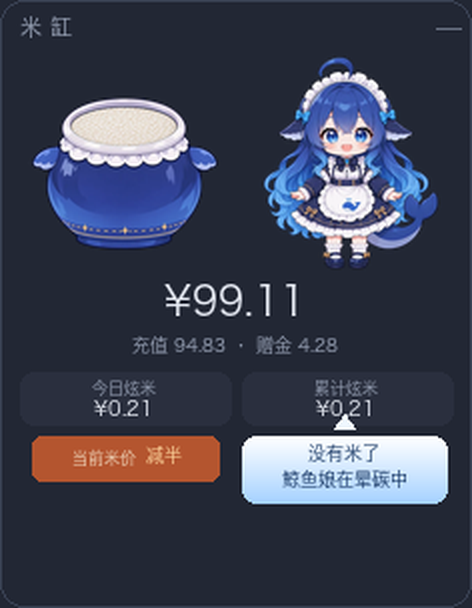
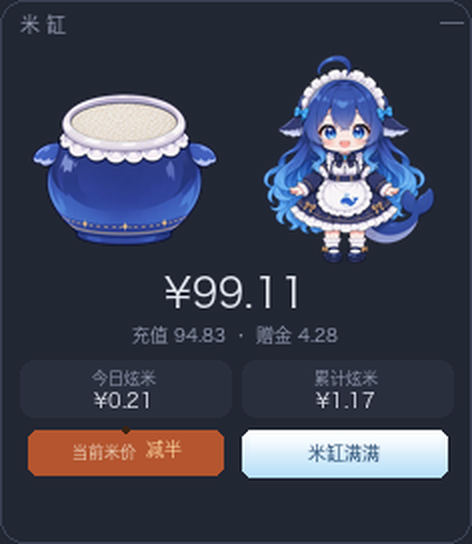
docs: rewrite README for 1.0.2
- install first, then features
- regenerate the preview images against the current copy and layout
  (今日炫米/累计炫米, hint plate, sleeping pose lifted to cover the vat mouth)
- document the DSH compatibility floor: 0.2.1-rc.2 + plugin 1.0.2
- add an explicit upstream section crediting the community character library and
  the reference implementations this plugin learned from
- ask for a star at the end

diff --git a/README.md b/README.md
@@ -1,114 +1,203 @@
-# 米缸 · Rice vat
+# 米缸 · dsh-rice-vat
 
-A DeepSeek Harness UI plugin that shows the account balance as a **rice vat**,
-with a Q-version whale-girl (鲸鱼娘) companion who eats the rice while you spend
-and falls asleep on the empty vat when it runs out.
+> 把 DeepSeek 账户余额变成**一缸米**。鲸鱼娘守着缸，你每花一笔，她就吃一口。
+
+[![npm](https://img.shields.io/npm/v/dsh-rice-vat)](https://www.npmjs.com/package/dsh-rice-vat)
+[![license](https://img.shields.io/npm/l/dsh-rice-vat)](LICENSE)
+[![DSH](https://img.shields.io/badge/DSH-%E2%89%A5%200.2.1--rc.2-blue)]()
 
 ![卡片](docs/card.png)
 
+---
+
+## 安装
+
+### 方式一：让 DSH 的 agent 帮你装（最简单）
+
+新建一个会话，对它说：
+
+> 安装 DSH 插件 `dsh-rice-vat`，最新版
+
+它调用 `plugin_manager` 时会弹确认，批准即可。
+
+### 方式二：手动
+
+```
+plugin_manager  install_bundle  dsh-rice-vat@1.0.2
+```
+
+或者命令行：
+
+```bash
+npm install -g dsh-rice-vat
+```
+
+### ⚠ 装完必须**完全退出 DSH 再打开**
+
+不是刷新页面，是**退出应用**。
+
+插件由两半组成：客户端（面板 UI）和 Host（数据路由）。客户端刷新页面就能加载，**Host 半必须等 DSH 重新启动才会注册路由**。只刷新不重启，就会看到「面板出现了但一直显示正在读数」—— 那是 Host 半没起来。
+
+如果重启后仍不正常，到「插件」页把 `dsh-rice-vat` 的开关**关掉再打开**。
+
+### 运行要求
+
+| 项 | 要求 |
+|---|---|
+| DSH | **≥ 0.2.1-rc.2** |
+| 插件版本 | **≥ 1.0.2**（1.0.0 / 1.0.1 在 0.2.1 上不可用，`1.0.1` 已标记 deprecated） |
+| DeepSeek 账号 | **需要登录**，余额通过账号服务读取 |
+| API Key | **不需要**，插件完全不读 key |
+
+---
+
+## 它有什么
+
+### 🍚 余额就是米位
+
+不是又一个数字，而是**余光扫一眼就知道还剩多少**。
+
+- **> ¥100** — 米堆成小山，溢出缸口
+- **¥6 – ¥100** — 米面在缸口内**连续下降**（不是四段跳变）
+- **¥0 – ¥6** — 缸底只剩几粒米
+- **¥0** — 空缸，她直接趴在缸口上睡着
+
+### 🐋 吃米动画
+
+每产生一次模型调用消耗，她就切到「端着碗吃米饭」的 16 帧动画（4.6 秒循环），米粒从碗里溅出，碗里的米**越吃越少直到见底**。米缸本身不参与演出，始终显示真实余额。
+
+### 🪧 气泡提示牌
+
+一块蓝白渐变的提示牌，用一句话说明**米缸当前的状态**（不是描述她在干嘛）：
+
+| 情形 | 提示 |
+|---|---|
+| 余额 > ¥100 | 米缸溢出来了 |
+| 米位 ≥ 70% | 米缸满满 |
+| 米位 30–70% | 米缸过半 |
+| 米位 < 30% | 米缸见底了 |
+| 空缸 | 没有米了，晕碳中 |
+| 吃米中 | 正在炫米... |
+| 数据拉取失败 | 信号不稳 |
+
+### 🏷 米价木牌
+
+DeepSeek 有峰谷计价：北京时间工作日 9–12、14–18 为高峰，其余时段**半价**。空闲时段木牌会亮成橙色显示「当前米价 · 减半」。
+
+### 📊 本地消耗统计
+
+今日炫米 / 累计炫米，按真实 token 用量折算成金额，落在本地账本。
+
+---
+
 ## 四档米位
 
-![四档米位](docs/states.png)
-
-The artwork is four discrete states, selected by balance:
+![四档](docs/states.png)
 
 | 余额 | 米位 | 实现 |
 |---|---|---|
-| **> ¥100** | 米堆成小山，溢出缸口 | `vat-overflow` 原画 |
-| **¥6 – ¥100** | 米面**连续下降** | `vat-empty` + 米面叠加层，按余额在缸口内下移 |
-| **¥0 – ¥6** | 缸底只剩几粒米 | `vat-low` 原画 |
-| **¥0** | 空缸，她趴在上面睡 | `vat-empty` + `girl-sleep` |
+| **> ¥100** | 米堆成小山 | `vat-overflow` 原画 |
+| **¥6 – ¥100** | 米面连续下降 | 空缸 + 米面层按余额在缸口内下移（最大 19.05%） |
+| **¥0 – ¥6** | 缸底几粒米 | `vat-low` 原画 |
+| **¥0** | 空缸，她趴在上面睡 | `vat-empty` + `girl-sleep`（上移 52%） |
 
-中间段没有原画，用素材包自带的 `vat-rice-mask` / `vat-rice-overlay` 合成：
-空缸为底，米面层按「(余额−6)/94」在缸口内下移，最大位移 19.05%（= 缸口可见高度）。
-`vat-full` 原画保留为合成不可用时的兜底。
+中间段没有现成原画，用素材包自带的缸口遮罩 + 米面叠加层合成，所以升降是平滑的而不是跳档。
 
-Thresholds are fixed by design and **not** configurable.
+---
 
-## 状态
-
-| 状态 | 触发 | 素材 |
-|---|---|---|
-| 待机 | 默认 | `girl-idle` |
-| 吃米 | 每次模型调用产生消耗 | `girl-eat`：**16 帧动画**（4.6s，碗里的米吃到见底）+ 米粒飞溅 |
-| 告急 | 0 < 余额 ≤ ¥6 | `girl-low` |
-| 空缸 | 余额 = 0 | `girl-sleep` **叠在** `vat-empty` 上 |
-
-![提示牌与木牌](docs/hint-plate.png)
-
-吃米时的演出：米粒从**她怀里的碗**中溅出，鲸鱼娘切到埋头吃的姿态。
-米缸**始终显示真实余额档位**，不参与吃米演出。
-
-> 碗里的米「越吃越少直到见底」需要额外帧素材（原画里碗内壁被米挡住，无法合成），
-> 规格见 `ASSETS-SPEC.md` §5.5。
-
-## 渲染位置
-
-挂在 `shell.overlay`（全框浮层），以 CSS 定位停在侧边栏底部。
-侧边栏本身是 `single` 槽位，替换它等于重写整列，所以本插件只做视觉锚定，不占布局位。
-
-## 数据
+## 数据从哪来
 
 | 字段 | 来源 |
 |---|---|
-| 余额、充值、赠金 | `ctx.deepseekAccount.getBalance()`（Host） |
-| 今日 / 累计消耗 | `session/event` → `assistant/message.usage`，在 Host 折叠 |
-| 实时余额 | 锚点余额 − 锚点之后累计消耗（pulse 每 1.5s 下发） |
-| 计价 | 内置 DeepSeek CNY 价目表 |
-| 多 key 余额 | 未实现 |
+| 余额 / 充值 / 赠金 | `ctx.deepseekAccount.getBalance()`（Host） |
+| 今日 / 累计消耗 | 会话事件 `assistant/message.usage`，在 Host 折叠 |
+| 实时余额 | 锚点余额 − 锚点后累计消耗，1.5 秒一次心跳 |
+| 计价 | 内置 DeepSeek 官方价目表 |
 
-累计统计**从插件首次加载开始**，不回放历史会话。DSH 之外的消耗会降低余额但不会被归因。
-
-### 计价
+### 计价表（元 / 百万 tokens）
 
 | 模型 | 输入（缓存命中） | 输入（未命中） | 输出 |
 |---|---|---|---|
 | `deepseek-flash` | ¥0.04 / ¥0.02 | ¥2 / ¥1 | ¥8 / ¥4 |
 | `deepseek-v4-pro` | ¥0.30 / ¥0.15 | ¥9.0 / ¥4.5 | ¥27.0 / ¥13.5 |
 
-前为高峰价，后为空闲价（正好半价）。高峰 = 北京时间工作日 9:00–12:00、14:00–18:00。
-**中国法定节假日未建模**，节假日流量会高估。未知模型按 flash 计价。
+前为高峰价，后为空闲价（正好半价）。**中国法定节假日未建模**，节假日流量会高估。未知模型按 flash 计价。
 
-面板用一块木牌提示价格：空闲时段显示「今日米价 · 减半」。
+---
 
-## 路由
+## 隐私与鉴权
 
-| 路由 | 鉴权 | 用途 |
-|---|---|---|
-| `GET /api/rice-bowl/state` | owner | 余额 + 消耗文档 |
-| `GET /api/rice-bowl/pulse` | owner | 1.5s 轻量消耗与实时米位 |
-| `GET /api/rice-bowl/asset/<name>.webp` | 公开 | 素材（不含账户数据） |
-| `GET /api/rice-bowl/ping` | 公开 | 客户端挂载心跳 |
-| `GET /api/rice-bowl/diag` | 公开 | 只有计数器，绝不含余额 |
+- **完全不读取 API key**，只走已登录的账号服务。
+- 余额数据只通过 **owner 授权的路由**离开 Host：Host 在渲染页面时签发一次性令牌并注入页面全局，客户端回传 `x-rice-bowl-token` 才放行。
+- 令牌以 **SHA-256 哈希**落盘（`$DSH_HOME/rice-bowl/tokens.json`，权限 0600），进程重启或插件重载都不会让已打开的页面失效。
+- 账本在 `$DSH_HOME/rice-bowl/ledger.json`，只存金额，不上传任何东西。
 
-数据路由 fail-closed。自有前缀路由拿不到共享 `/api` 的 peer，因此 Host 在渲染 index 时
-签发页面令牌并注入 `__RICE_BOWL_TOKEN__`，客户端回传 `x-rice-bowl-token`。
-令牌以 **SHA-256 哈希**落盘（`$DSH_HOME/rice-bowl/tokens.json`，0600），
-进程重启或插件重载都不会让已打开的页面失效。
+---
 
-## 隐私
+## 已知限制
 
-- 本版本**完全不读取 API key**。
-- 余额只会通过 owner 授权的路由离开 Host。
-- 余额响应缓存 45s，面板轮询不会打爆接口。
-- 账本在 `$DSH_HOME/rice-bowl/ledger.json`，只存金额。
+- **侧边栏折叠时**卡片可能压住内容 —— 它挂在 `shell.overlay` 上做视觉锚定，不占布局位。右上角 `—` 可收起成小米粒药丸。
+- **统计从安装那一刻开始**，不回填历史消耗（避免全量重放会话日志）。
+- **DSH 之外**用同一账号花的钱会降低余额，但不会被归因到今日/累计。
 
-## 素材
+---
 
-八个状态由插件所有者提供，见 `assets/ATTRIBUTION.md`。
-全部 1024×1024 RGBA，共用同一画布与同一缸体；本插件用**统一裁切** `(74,62,952,962)`
-再编码成 512 宽 WebP，从而让 `girl-sleep` 能直接叠在 `vat-empty` 上（上移 15.55%）。
+## 开源来源与致谢
 
-## 未实现
+这个插件的**角色形象、技术路线和实现手法**都来自开源社区，来源在此逐一说明。
 
-- 多 key 多米缸（逐个勾选 opt-in）。
-- 账本里已存的按日历史没有浏览界面。
-- 素材是静态帧；动画由 CSS 驱动。若后续提供 GIF/序列帧可替换。
+### 1. 角色形象 · 鲸鱼娘 / 大肥鱼
 
-## 安装
+本插件的鲸鱼娘沿用**社区自发形成的去中心化角色**。该角色没有官方标准设定，本项目也不主张任何人设的「正统性」。
+
+- 社区资产库：**[TreapGoGo/deepseek-whale-girl](https://github.com/TreapGoGo/deepseek-whale-girl)**（MIT）
+- 该资产库明确声明：由社区维护，**不代表深度求索公司或其官方立场**
+- 本项目的立绘在设计该库角色设定的基础上，由本项目作者用 AI 图像工具重新生成，随本包以 MIT 授权
+
+### 2. 开发期参考的素材与实现
+
+- **[Sutera-Diffusus/dsh-whale-musume](https://github.com/Sutera-Diffusus/dsh-whale-musume)**（MIT）—— 开发早期曾短暂使用其四张立绘（已全部删除，不再随包分发）；其 `shell.overlay` 挂载方式、素材只读路由的做法是本项目的重要参考
+- **[huangdsa45/dsh_feiyu](https://github.com/huangdsa45/dsh_feiyu)**（MIT）—— 证明了 `shell.overlay` 浮层可以作为桌面宠物式的挂载点
+- **[MeteorNOX/DeepSeek-Balance-Whale-Widget](https://github.com/MeteorNOX/DeepSeek-Balance-Whale-Widget)**（MIT）—— 展示了「余额下降即消耗」的记账思路
+- **[aceice01/dsh-whale-pet](https://github.com/aceice01/dsh-whale-pet)** —— 演示了 Host 侧代理余额接口、前端只拿结果的隔离做法
+
+### 3. 运行平台
+
+- **[DeepSeek Harness](https://deepseek-harness.github.io/deepseek-harness/)** —— 本插件是其生态内的第三方社区插件
+
+### 4. 声 明
+
+**本项目不是 DeepSeek 官方项目**，与深度求索公司无隶属、合作或背书关系，不使用其商标或标识作为自身品牌。
+
+如果你在这些上游项目里发现了有用的东西，也请给它们一个 Star。
+
+---
+
+## 许可
+
+**MIT** —— 代码和美术**整包同许可**，可自由使用、修改、再分发，详见 [LICENSE](LICENSE) 与 [assets/ATTRIBUTION.md](assets/ATTRIBUTION.md)。
+
+---
+
+## 卸载
 
 ```
-plugin_manager install_bundle  target: <本目录绝对路径>
+plugin_manager  remove_bundle  dsh-rice-vat
 ```
 
-**客户端改动需要重启 DSH**（浏览器 bundle 在页面启动时加载）。
+然后重启 DSH。
+
+---
+
+<div align="center">
+
+### 如果这个米缸让你一眼看懂了余额
+
+**给个 Star ⭐ 吧**
+
+它真的会让鲸鱼娘多吃几口米 🍚
+
+[![Star](https://img.shields.io/github/stars/zyzfred/dsh-rice-vat?style=social)](https://github.com/zyzfred/dsh-rice-vat/stargazers)
+[![Fork](https://img.shields.io/github/forks/zyzfred/dsh-rice-vat?style=social)](https://github.com/zyzfred/dsh-rice-vat/fork)
+
+</div>
